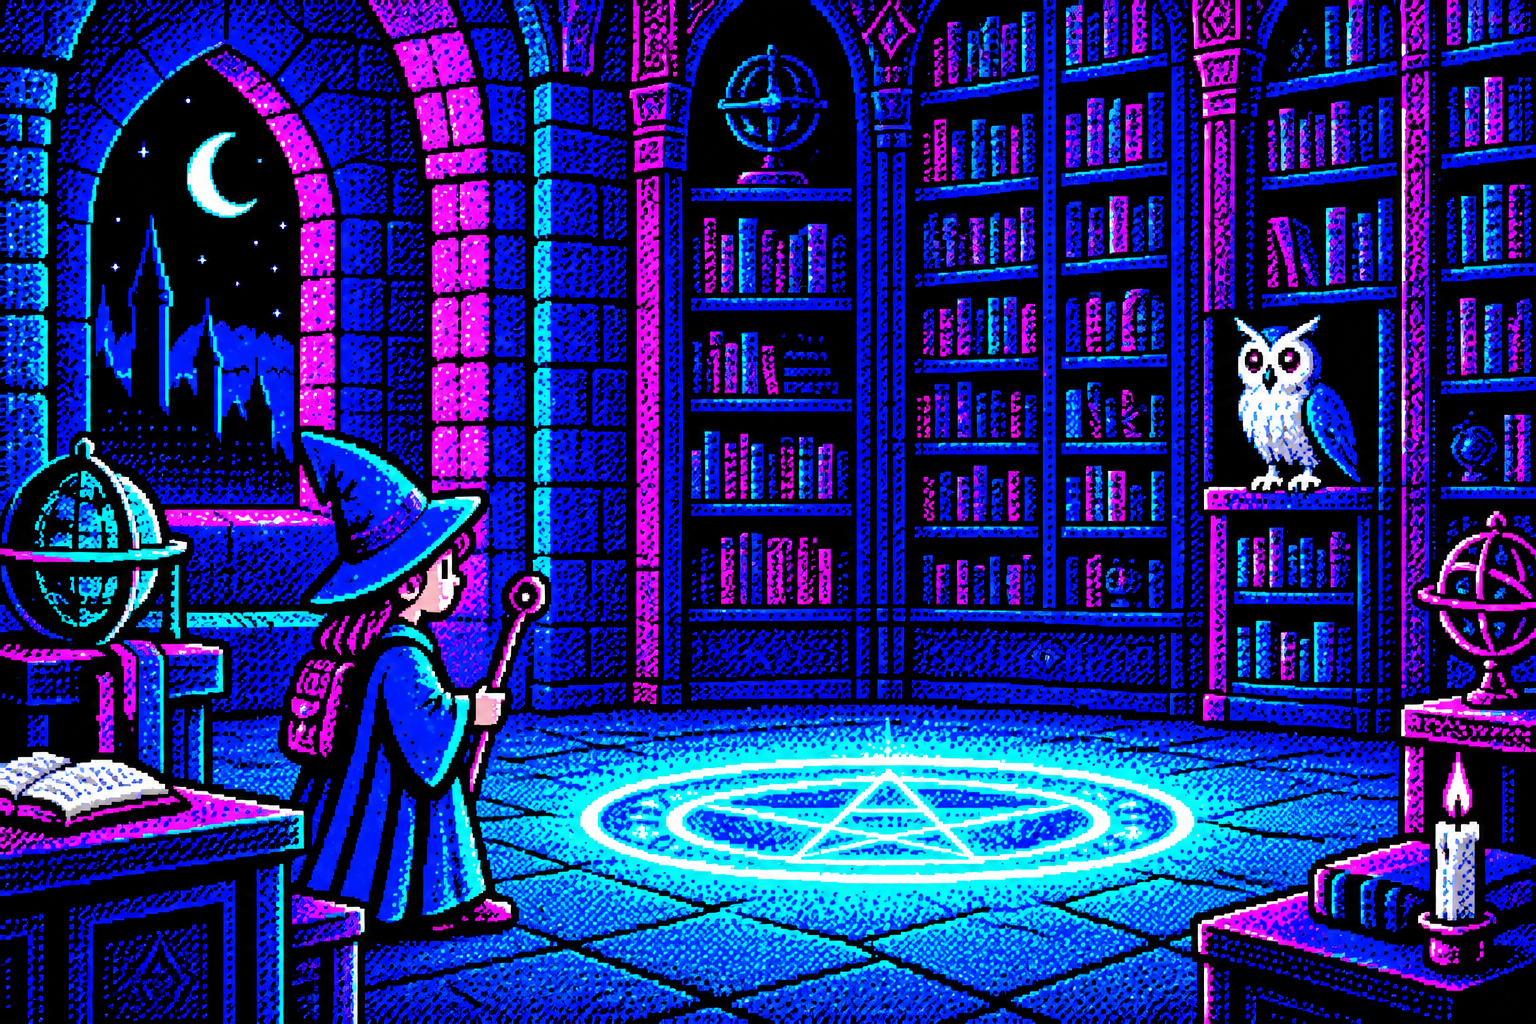
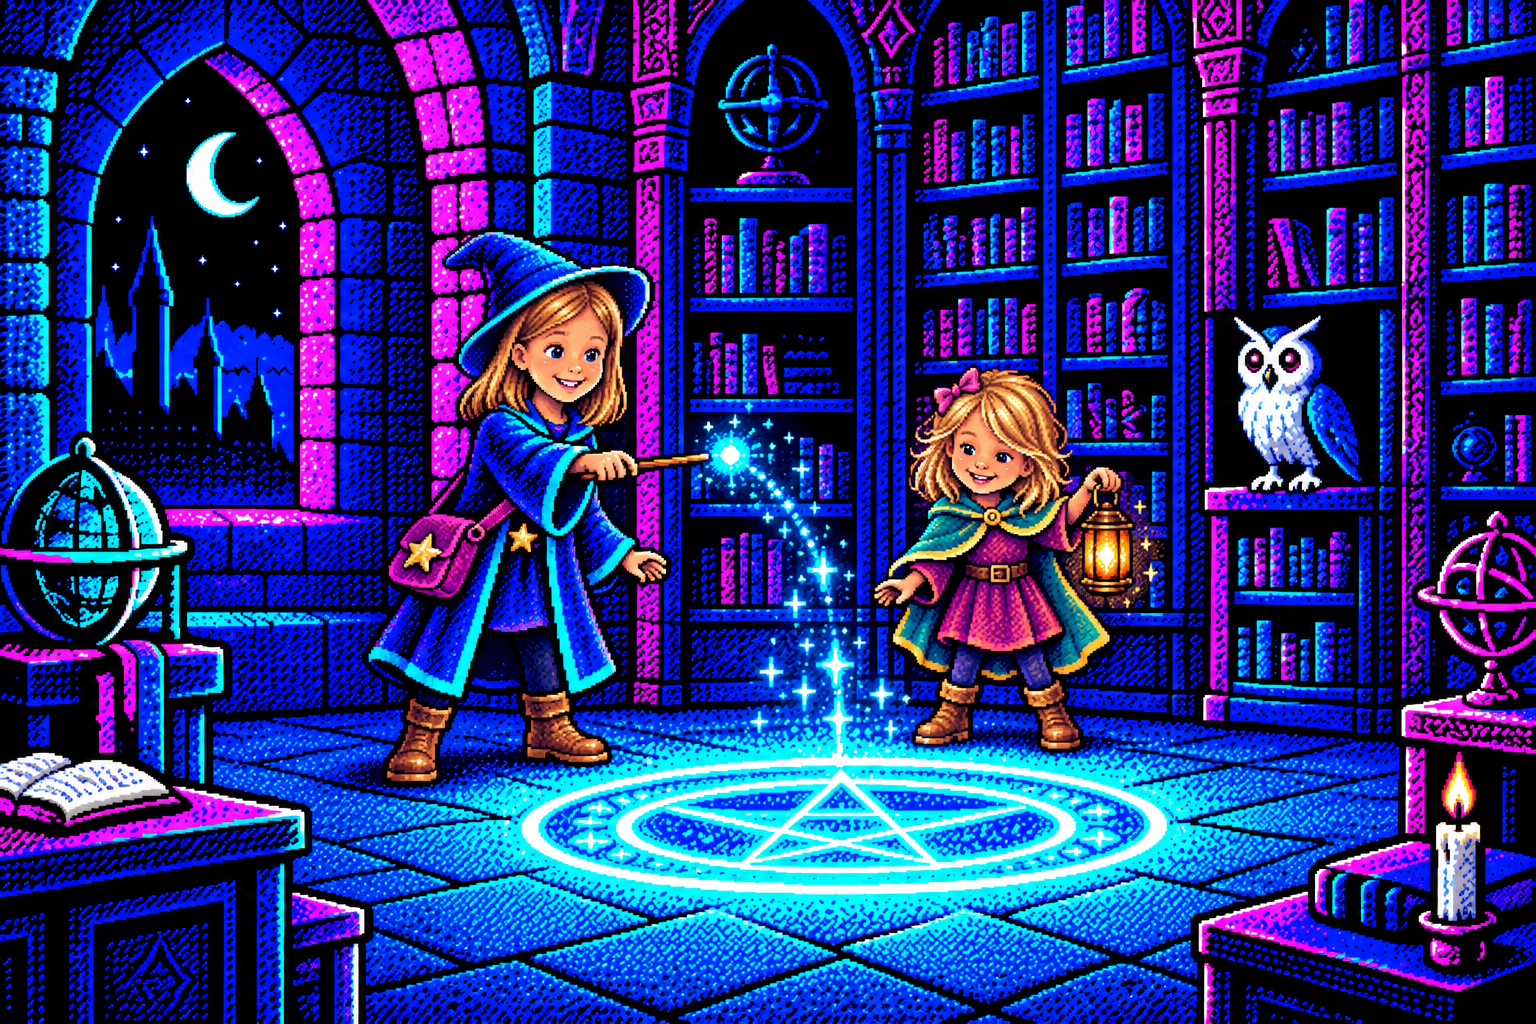
art: unify campaign scenes around the two sister characters

diff --git a/docs/sisters-art-prompts.md b/docs/sisters-art-prompts.md
@@ -1,0 +1,54 @@
+# The sisters: campaign art reference
+
+Created with the built-in image generation tool on 2026-09-22. User-provided family photographs informed the two fictional characters; the photographs are not project assets.
+
+## Visual continuity
+
+Use `public/art/sisters-reference.png` as the canonical reference for all future scenes. The older sister is the main apprentice: light-brown bob, blue hat and cyan-trim coat, magenta star satchel, cyan wand. The younger is her smaller companion: golden-blonde hair, pink bow, teal cape, plum tunic, amber lantern. Keep adult mentors distinct.
+
+## Character sheet prompt
+
+Create a character-design reference sheet for the existing SQL Wizard pixel-art adventure. Input images 1-3 are user-provided family reference photos: older daughter is the taller girl with straight shoulder-length light brown/dark blonde hair in photo 1 and left child in photo 2; younger daughter is the smaller golden-blonde girl front-center photo 2 and foreground photo 3. Do not depict the adults. Image 4 is STYLE reference only, not character identity. Make exactly TWO consistent child characters, age-appropriate and recognizably inspired by their respective facial features, smiles, hair and relative sizes, in beautifully crafted 1980s EGA-inspired pixel art: crisp square pixels, dark navy, cobalt, cyan and magenta with natural warm skin and hair highlights. Older girl is main apprentice, straight shoulder-length light-brown bob, side part, cheerful smile, indigo wizard coat and matching pointed hat tilted back so hair and face show, cyan trim, magenta crossbody satchel with a gold star clasp, brown boots, small wooden wand with cyan tip. Younger sister is a distinctly shorter little companion with tousled golden-blonde shoulder-length hair, side part, rounder cheerful face, teal cape with gold trim over plum tunic, small pink hair bow, brown ankle boots, little amber lantern. Lock these exact outfits and silhouettes. Wide sheet 1536x1024: two large full-body three-quarter characters standing side by side on plain deep navy background, plus small face/profile/back studies of these same two girls along the bottom. Keep figures separated. No text, captions, UI, logos, watermark, or photo realism. No grown-up body proportions. This will be the canonical visual reference for all future game scenes.
+
+## Scene editing prompt
+
+Each scene used its previous location image as input 1 and the canonical sheet as input 2. The exact prompt is the shared text below followed by its scene direction.
+
+Use case: identity-preserve / illustration-story. Edit target is image 1, a location background from SQL Wizard. Image 2 is the CANONICAL CHARACTER SHEET: match these exact two sisters, faces, age difference, hair, outfits, relative heights and proportions across the ENTIRE campaign. Older: straight light-brown shoulder-length bob, side part, blue pointed hat tipped back, blue/indigo wizard coat with cyan edging, magenta crossbody star satchel, brown boots, cyan-tipped wooden wand. Younger: noticeably shorter, tousled golden-blonde hair and pink bow, teal gold-trim cape, plum tunic, leggings and brown boots, amber lantern. These are children with natural child proportions and cheerful curious expressions. Remove/replace any inconsistent previous apprentice; keep other named adult mentors distinct. Preserve location identity and major environmental props from target, but render in the same cohesive crisp square-pixel EGA-inspired adventure-art style as the canonical sheet, dark navy/cobalt/cyan/magenta with warm hair, skin and lantern highlights. Landscape 1536x1024. Show each sister exactly once, sufficiently large with visible faces, preferably three-quarter-facing viewer while interacting naturally. Keep both faces within center 65% horizontally and upper-middle 25-55% vertically, avoiding extreme edges and bottom UI-overlay area. No montage, sprite sheets, repeated figures, labels, text, watermarks or UI. Scene direction: 
+
+### public/art/academy-arrival.png
+
+The sisters arrive together at the moonlit academy gate. Older sister leads holding her wand; younger sister walks beside her holding her lantern. White owl Professor Quill perches nearby. Keep the cracked cyan ward over the castle and lake in the background.
+
+### public/art/archive.png
+
+The two sisters study the library's summoning circle, with the older sister casting a small cyan spark and the younger holding her lantern and watching. Keep Professor Quill as the white owl. Replace the old lone apprentice completely.
+
+### public/art/herbarium.png
+
+The older sister examines a glowing ingredient at a potency-testing bench, younger sister beside her holding lantern and looking at the tray. Preserve greenhouse, moonlight, plant trays, balance and instruments.
+
+### public/art/potion-workshop.png
+
+Both sisters consult a recipe ledger beside the cauldron, older pointing at the book with wand, younger carefully holding a little capped potion vial and lantern set nearby. Retain Iona as a distinct adult potion tutor in apron and Professor Quill white owl if present. No extra child apprentices.
+
+### public/art/storeroom.png
+
+Older sister points at stock ledger while younger sister lights the shelves with her lantern. Preserve stocked jars, one empty tray and an uncounted shelf; Iona remains a clearly distinct adult mentor with apron.
+
+### public/art/sanctuary.png
+
+Both sisters accompany adult keeper Bramble tending an ember fox, moonmoths and a little cloud drake. Older crouches near the fox with wand lowered, younger holds her lantern watching a moonmoth. All gentle caring interaction.
+
+### public/art/observatory.png
+
+The two sisters study an alchemy diagram under the dome with adult archivist Sable. Older apprentice points to a star chart, younger raises amber lantern. Keep telescope, moonlit dome and astronomical instruments.
+
+### public/art/restoration.png
+
+The SAME sisters celebrate in the foreground, with both faces and signature outfits clearly readable. Older raises her cyan wand, younger raises amber lantern. Keep restored academy ward, beacon and safe ferry on lake behind them. This is the closing scene of their shared journey.
+
+### public/art/practice-workbench.png
+
+Add both canonical sisters behind and beside the practice workbench, older mixing harmless sparkling practice magic above an open spellbook, younger holding her lantern and watching a capped potion vial. Keep cauldron, spellbook and potion tools. Their faces must be visible in the middle vertical third for a short wide banner crop.
+
